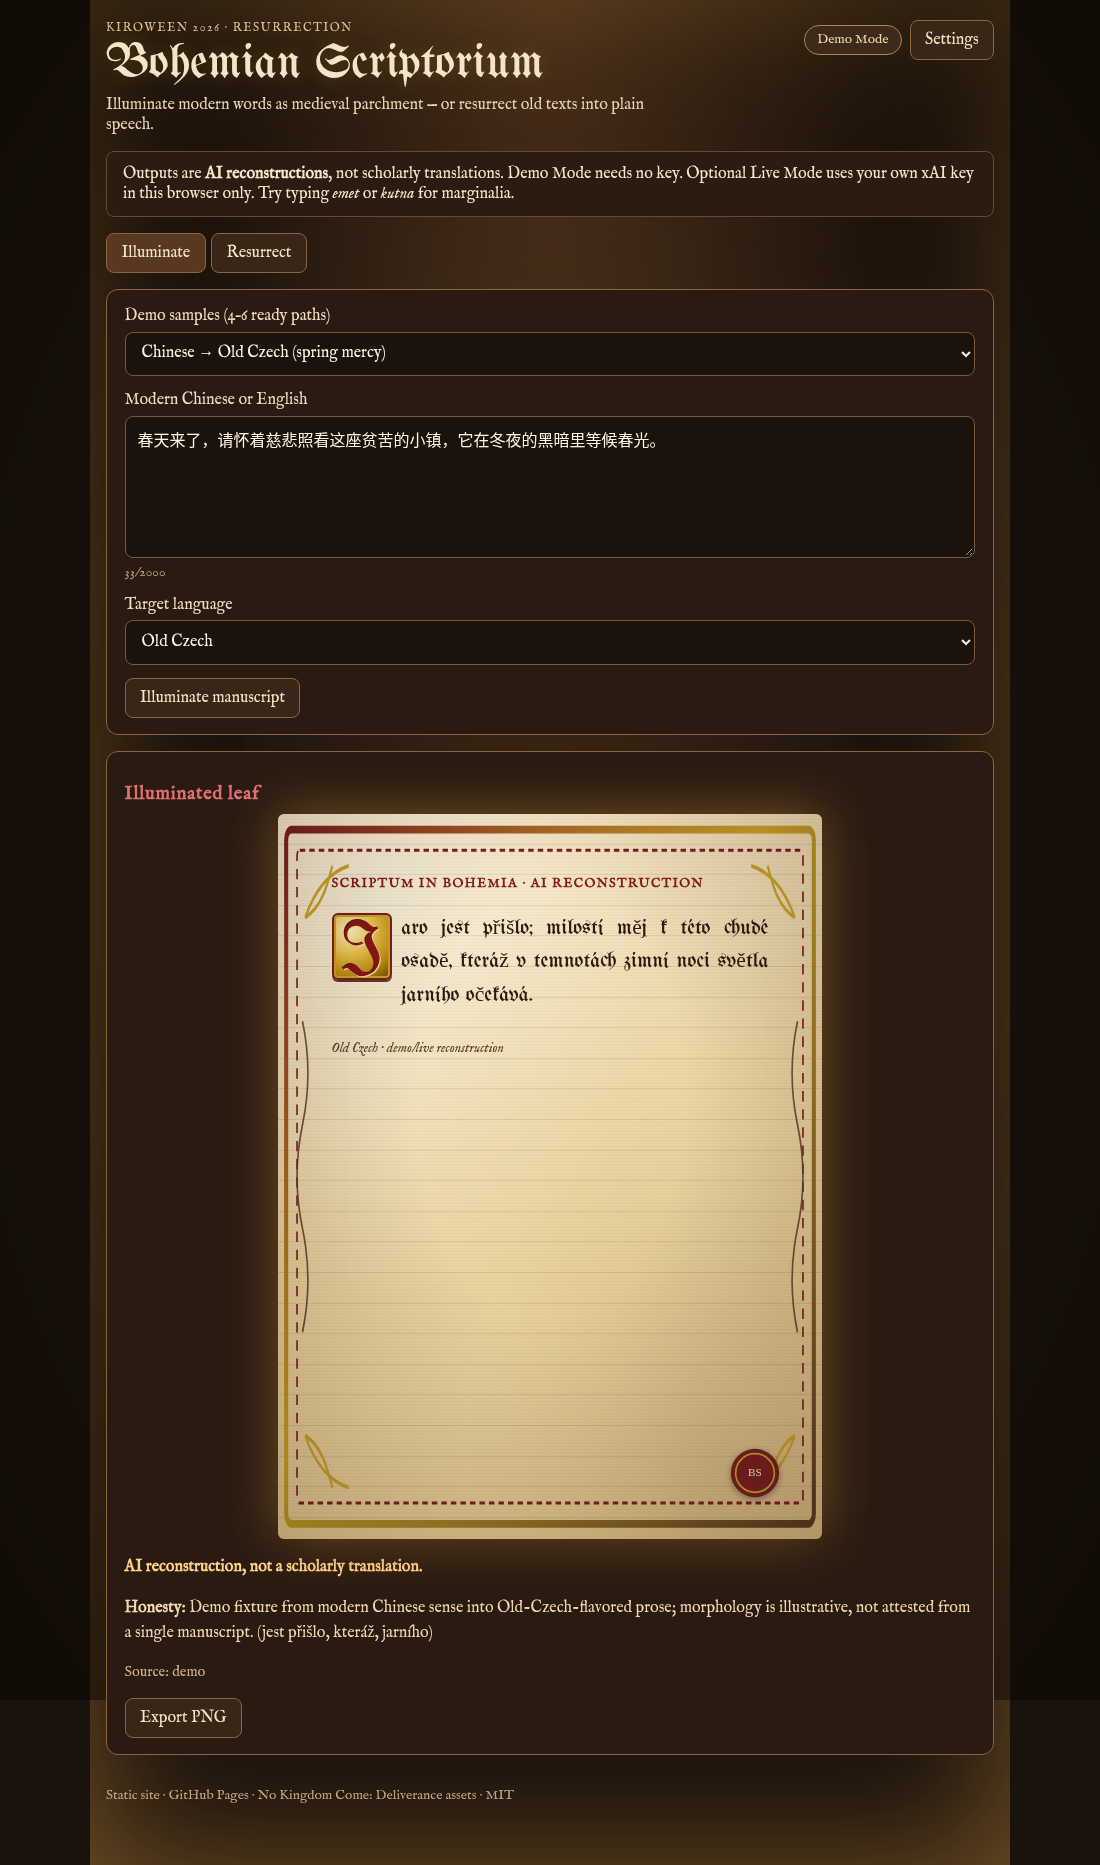
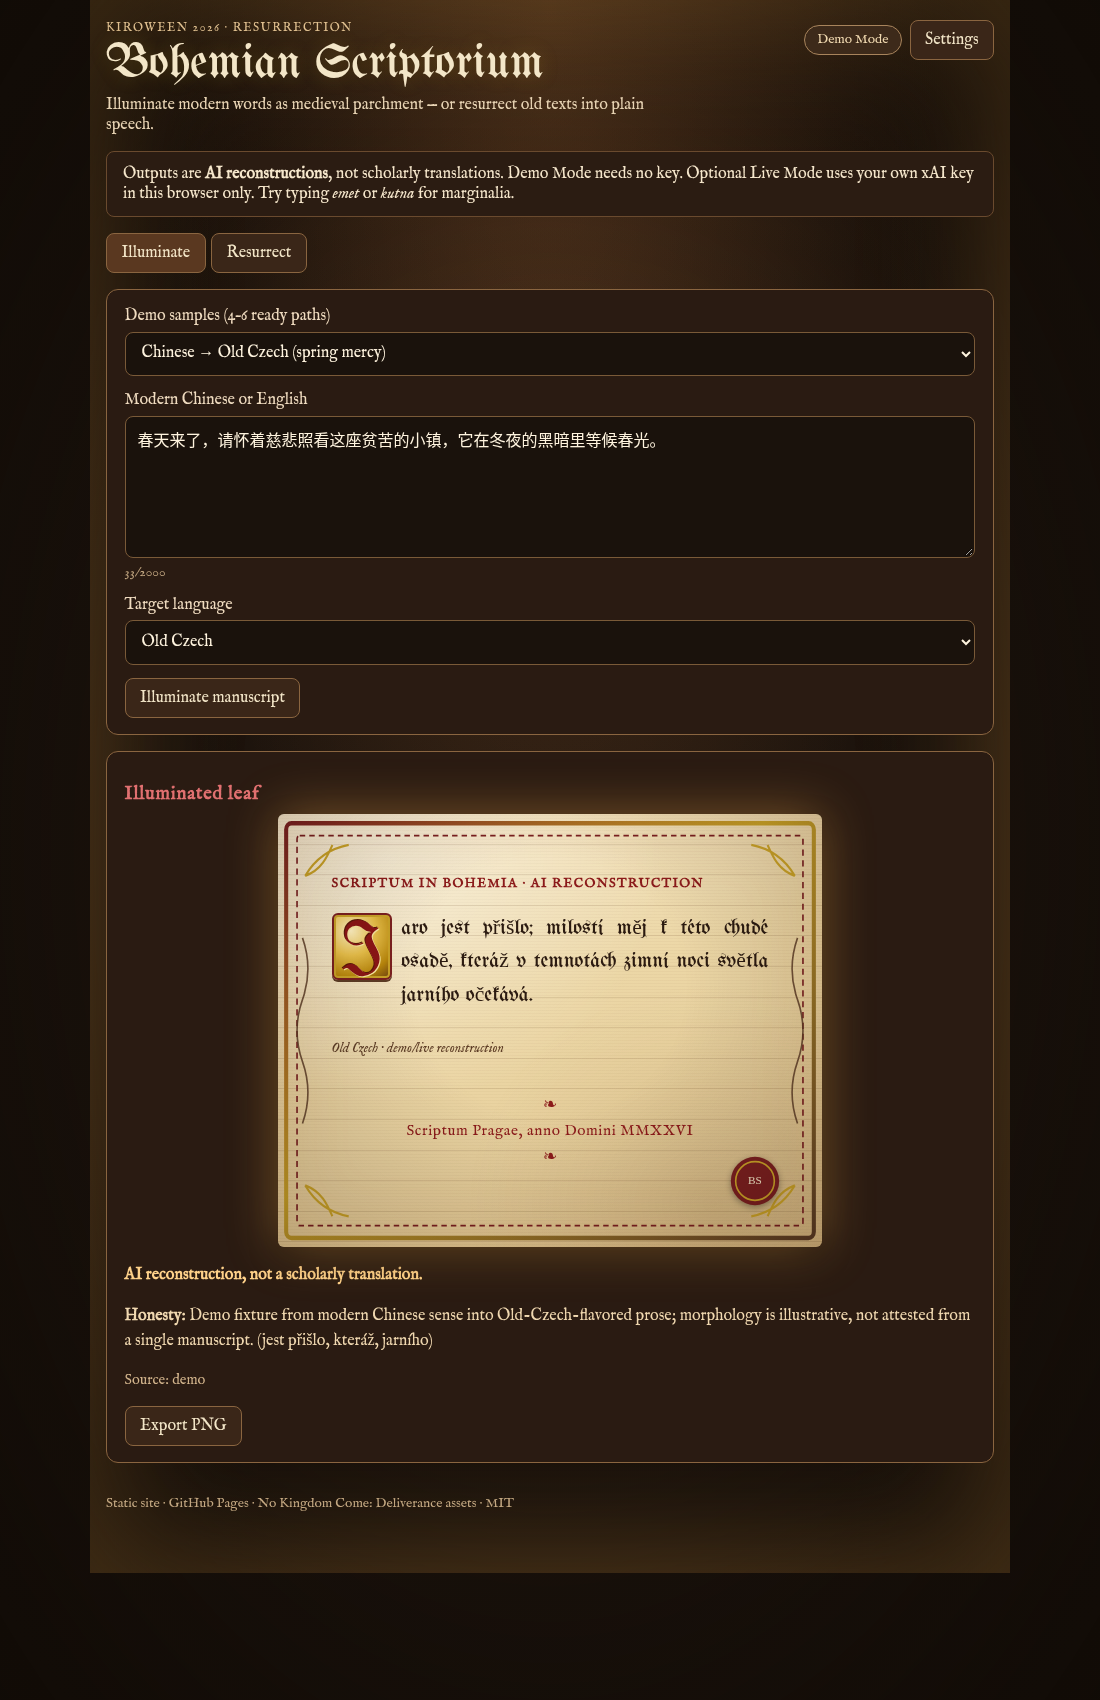
Fix manuscript PNG export framing and add colophon
Capture the leaf with explicit bounding-box width/height, reset
margin/transform in the html-to-image clone, and pin ink colors.
Add Prague MMXXVI colophon; let short texts use content height.

diff --git a/src/components/ExportButton.tsx b/src/components/ExportButton.tsx
@@ -23,33 +23,69 @@ export function ExportButton({ targetRef }: Props) {
           setError(null)
 
           const restored: Array<{ el: HTMLElement; css: string }> = []
-          const force = (el: HTMLElement | null, color: string) => {
-            if (!el) return
+          const remember = (el: HTMLElement) => {
             restored.push({ el, css: el.style.cssText })
+          }
+          const forceColor = (el: HTMLElement | null, color: string) => {
+            if (!el) return
+            remember(el)
             el.style.setProperty('color', color, 'important')
           }
 
           try {
-            // html-to-image can miss stylesheet cascade; pin ink colors inline.
-            force(root, IRON_GALL_INK)
+            const rect = root.getBoundingClientRect()
+            const width = Math.ceil(rect.width)
+            const height = Math.ceil(rect.height)
+
+            forceColor(root, IRON_GALL_INK)
             root.querySelectorAll<HTMLElement>('.border, .body').forEach((el) => {
-              force(el, IRON_GALL_INK)
+              forceColor(el, IRON_GALL_INK)
             })
-            root.querySelectorAll<HTMLElement>('.rubric-line').forEach((el) => {
-              force(el, RUBRIC_RED)
+            root.querySelectorAll<HTMLElement>('.rubric-line, .colophon').forEach((el) => {
+              forceColor(el, RUBRIC_RED)
             })
             root.querySelectorAll<HTMLElement>('.lang-tag').forEach((el) => {
-              force(el, LANG_CAPTION)
+              forceColor(el, LANG_CAPTION)
             })
             root.querySelectorAll<HTMLElement>('.candle-vignette').forEach((el) => {
-              restored.push({ el, css: el.style.cssText })
+              remember(el)
               el.style.display = 'none'
             })
+
+            // Stabilize layout for capture (page offset / margin / transform).
+            remember(root)
+            root.style.setProperty('margin', '0', 'important')
+            root.style.setProperty('transform', 'none', 'important')
+            root.style.setProperty('left', '0', 'important')
+            root.style.setProperty('top', '0', 'important')
+            root.style.setProperty('right', 'auto', 'important')
+            root.style.setProperty('position', 'relative', 'important')
+            root.style.setProperty('width', `${width}px`, 'important')
+            root.style.setProperty('height', `${height}px`, 'important')
+            root.style.setProperty('max-width', 'none', 'important')
 
             const dataUrl = await toPng(root, {
               cacheBust: true,
               pixelRatio: 2,
+              width,
+              height,
+              canvasWidth: width * 2,
+              canvasHeight: height * 2,
               backgroundColor: '#ecd7a6',
+              style: {
+                margin: '0',
+                transform: 'none',
+                left: '0',
+                top: '0',
+                position: 'relative',
+                width: `${width}px`,
+                height: `${height}px`,
+                maxWidth: 'none',
+              },
+              filter: (node) => {
+                if (!(node instanceof HTMLElement)) return true
+                return !node.classList.contains('candle-vignette')
+              },
             })
             const a = document.createElement('a')
             a.href = dataUrl

diff --git a/src/styles/app.css b/src/styles/app.css
@@ -165,6 +165,10 @@ button:disabled { opacity: 0.6; cursor: wait; }
 .manuscript .lang-tag {
   color: #5c3b24 !important;
 }
+.manuscript .colophon,
+.manuscript .colophon p {
+  color: #8b1a1a !important;
+}
 
 
 .field { display: flex; flex-direction: column; gap: 0.35rem; margin-bottom: 0.85rem; color: #f0dcc0; }
@@ -191,9 +195,11 @@ button:disabled { opacity: 0.6; cursor: wait; }
   padding: 1.35rem 1.25rem 1.6rem;
   overflow: hidden;
   max-width: 34rem;
+  width: 100%;
   margin: 0.5rem auto 0.75rem;
-  min-height: 28rem;
-  aspect-ratio: 3 / 4;
+  min-height: 22rem;
+  height: auto;
+  aspect-ratio: auto;
   background-color: #ecd7a6;
   background-image:
     /* ruled guide lines */
@@ -311,6 +317,26 @@ button:disabled { opacity: 0.6; cursor: wait; }
   font-style: italic;
 }
 
+.colophon {
+  margin-top: 2.4rem;
+  text-align: center;
+  color: #8b1a1a !important;
+  clear: both;
+}
+.colophon p {
+  margin: 0.35rem 0;
+  font-family: 'IM Fell English', serif;
+  font-size: 0.95rem;
+  letter-spacing: 0.04em;
+  color: #8b1a1a !important;
+}
+.colophon-ornament {
+  display: block;
+  color: #8b1a1a;
+  font-size: 1.1rem;
+  line-height: 1;
+}
+
 .wax-seal {
   position: absolute;
   right: 1.1rem;
@@ -395,7 +421,7 @@ button:disabled { opacity: 0.6; cursor: wait; }
 
 @media (max-width: 400px) {
   .tabs { flex-direction: column; }
-  .manuscript { aspect-ratio: auto; min-height: 22rem; max-width: 100%; }
+  .manuscript { aspect-ratio: auto; min-height: 18rem; max-width: 100%; height: auto; }
   .body { font-size: 1.15rem; line-height: 1.8; }
   .border { padding: 1.6rem 1.2rem 2.8rem; }
   .drop-gold { font-size: 2.8rem; min-width: 2.8rem; min-height: 2.8rem; }

diff --git a/src/components/ManuscriptPage.tsx b/src/components/ManuscriptPage.tsx
@@ -46,6 +46,11 @@ export function ManuscriptPage({ result, candle, ossuary, golem }: Props) {
             {rest}
           </p>
           <p className="lang-tag">{labelFor(result.targetLanguage)}</p>
+          <div className="colophon" aria-hidden="true">
+            <span className="colophon-ornament">❧</span>
+            <p>Scriptum Pragae, anno Domini MMXXVI</p>
+            <span className="colophon-ornament">❧</span>
+          </div>
           <WaxSeal />
         </div>
       </article>
